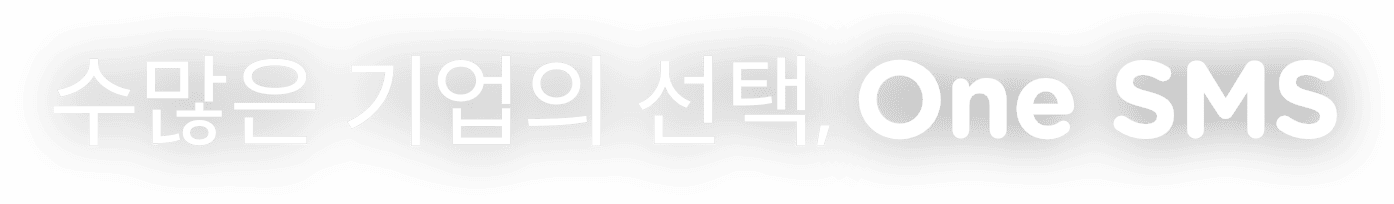
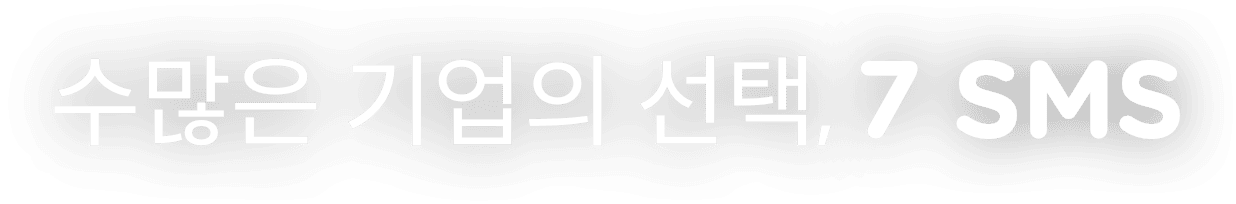
1.로고BI 변경 및 푸터 BI명 변경 2.단, 장문 화면 수정 및 연락처 추가 팝업 작업

diff --git a/v2/assets/css/style.css b/v2/assets/css/style.css
@@ -1311,7 +1311,7 @@ figcaption {
 }
 
 .navigation .bind-left .logo {
-  width: 130px;
+  width: 82px;
   height: 22px;
   margin-right: 50px;
   background: url("../images/logo_black.png") no-repeat 0 0;
@@ -2298,7 +2298,8 @@ footer {
       -ms-flex-align: center;
           align-items: center;
   width: 304px;
-  margin: 76px auto 59px;
+  margin: 0 auto;
+  padding: 76px 0 47px;
 }
 
 .sms-txt-viwer-header > em {
@@ -2322,31 +2323,55 @@ footer {
 }
 
 .sms-txt-input textarea {
-  height: 398px;
-  padding: 0 15px 15px;
+  height: 348px;
+  padding: 12px 15px;
 }
 
 .sms-txt-input .refer {
-  padding: 0 15px 30px;
+  display: -webkit-box;
+  display: -ms-flexbox;
+  display: flex;
+  -webkit-box-orient: vertical;
+  -webkit-box-direction: normal;
+      -ms-flex-direction: column;
+          flex-direction: column;
+  -webkit-box-pack: start;
+      -ms-flex-pack: start;
+          justify-content: flex-start;
+  -webkit-box-align: start;
+      -ms-flex-align: start;
+          align-items: flex-start;
+  gap: 5px 0;
+  padding: 0 15px;
 }
 
 .sms-txt-input .refer [class*='refer'] {
-  display: block;
+  width: 100%;
   line-height: 29px;
   font-size: 12px;
   text-align: center;
   border-radius: 5px;
+  -webkit-box-sizing: border-box;
+          box-sizing: border-box;
 }
 
-.sms-txt-input .refer .refer1 {
+.sms-txt-input .refer.bottom {
+  margin-bottom: 30px;
+}
+
+.sms-txt-input .refer-skyblue {
   border: 1px solid #468bf0;
   background: #e9f2fe;
 }
 
-.sms-txt-input .refer .refer2 {
-  margin-top: 5px;
+.sms-txt-input .refer-red {
   color: #fff;
   background: #e63312;
+}
+
+.sms-txt-input .refer-blue {
+  color: #fff;
+  background: #468bf0;
 }
 
 .sms-txt-input .btn-group-function {
@@ -2391,9 +2416,7 @@ footer {
 }
 
 .sms-txt-write {
-  -webkit-box-flex: 1;
-      -ms-flex: 1;
-          flex: 1;
+  width: 454px;
   padding-top: 15px;
 }
 
@@ -2437,9 +2460,163 @@ footer {
   bottom: 10px;
 }
 
+.sms-txt-write .user-form-choice .radio-chk-display .txt {
+  min-width: 100px;
+}
+
 .sms-txt-write .user-form-choice .select-default select {
   padding-left: 12px;
   padding-right: 18px;
+}
+
+/* 연락처 팝업 */
+.address-add {
+  display: -webkit-box;
+  display: -ms-flexbox;
+  display: flex;
+  -webkit-box-orient: horizontal;
+  -webkit-box-direction: normal;
+      -ms-flex-direction: row;
+          flex-direction: row;
+  -webkit-box-pack: start;
+      -ms-flex-pack: start;
+          justify-content: flex-start;
+  -webkit-box-align: start;
+      -ms-flex-align: start;
+          align-items: flex-start;
+  gap: 0 10px;
+  margin-top: 15px;
+}
+
+.address-add > article {
+  height: 533px;
+  border-radius: 5px;
+}
+
+.address-add-guide {
+  width: 407px;
+  padding: 20px 25px;
+  border: 1px solid #cccfd9;
+}
+
+.address-add-guide > em {
+  margin-bottom: 9px;
+  line-height: 33px;
+  font-weight: 500;
+}
+
+.address-add-guide ol {
+  font-size: 14px;
+  counter-reset: index 0;
+}
+
+.address-add-guide ol li {
+  position: relative;
+  padding-left: 28px;
+  line-height: 22px;
+  letter-spacing: -0.5px;
+}
+
+.address-add-guide ol li span {
+  display: block;
+  color: #6e6e6e;
+}
+
+.address-add-guide ol li::before {
+  content: counter(index);
+  position: absolute;
+  left: 0;
+  top: 0;
+  counter-increment: index 1;
+  width: 21px;
+  line-height: 21px;
+  background: #468bf0;
+  border-radius: 999px;
+  font-size: 12px;
+  text-align: center;
+  color: #fff;
+  font-weight: 400;
+}
+
+.address-add-guide ol li + li {
+  margin-top: 11px;
+}
+
+.address-add-input {
+  -webkit-box-flex: 1;
+      -ms-flex: 1;
+          flex: 1;
+  padding: 20px 25px 25px;
+  background: #f6f5f3;
+}
+
+.address-add-input-header {
+  display: -webkit-box;
+  display: -ms-flexbox;
+  display: flex;
+  -webkit-box-orient: horizontal;
+  -webkit-box-direction: normal;
+      -ms-flex-direction: row;
+          flex-direction: row;
+  -webkit-box-pack: justify;
+      -ms-flex-pack: justify;
+          justify-content: space-between;
+  -webkit-box-align: center;
+      -ms-flex-align: center;
+          align-items: center;
+  margin-bottom: 6px;
+}
+
+.address-add-input-header > em {
+  font-weight: 500;
+}
+
+.address-add-input-header > span {
+  display: -webkit-box;
+  display: -ms-flexbox;
+  display: flex;
+  -webkit-box-orient: horizontal;
+  -webkit-box-direction: normal;
+      -ms-flex-direction: row;
+          flex-direction: row;
+  -webkit-box-pack: justify;
+      -ms-flex-pack: justify;
+          justify-content: space-between;
+  -webkit-box-align: center;
+      -ms-flex-align: center;
+          align-items: center;
+  gap: 0 10px;
+}
+
+.address-add-input-header > span span {
+  font-size: 14px;
+  font-weight: 500;
+}
+
+.address-add-input-header > span span em {
+  color: #468bf0;
+}
+
+.address-add-input-header > span .btn-bordered {
+  padding: 0 17px;
+  line-height: 30px;
+  font-size: 12px;
+  font-weight: 500;
+}
+
+.address-add-input-body {
+  height: calc(100% - 38px);
+  padding: 25px;
+  background: #fff;
+  border-radius: 5px;
+}
+
+.address-add-input-body textarea {
+  height: 100%;
+  line-height: 29px;
+  font-size: 14px;
+  background: url("../images/bg_img_line.png") repeat 0 0;
+  background-size: auto;
 }
 
 /* 수신거부 */

diff --git a/v2/address_add.html b/v2/address_add.html
@@ -1,0 +1,74 @@
+<!DOCTYPE html>
+<html lang="ko">
+  <head>
+    <meta charset="UTF-8" />
+    <meta http-equiv="X-UA-Compatible" content="IE=edge" />
+    <meta name="viewport" content="width=device-width, initial-scale=1.0" />
+    <meta name="description" content="" />
+    <title>연락처 추가 팝업</title>
+    <link rel="stylesheet" href="/v2/assets/css/style.css" />
+    <script defer src="/v2/assets/js/lib/jquery-3.5.1.min.js"></script>
+    <script defer src="/v2/assets/js/lib/jquery.modal.min.js"></script>
+    <script defer src="/v2/assets/js/lib/includeHTML.js"></script>
+    <script defer src="/v2/assets/js/ui.js"></script>
+  </head>
+  <body>
+    <div class="wrapper">
+      <p><a href="#ex1" class="btn-modal-open">연락처 추가 팝업 호출</a></p>
+
+      <div id="ex1" class="modal">
+        <div class="modal-primary">
+          <div class="modal-header">
+            <span class="tit">연락처 추가</span>
+          </div>
+          <div class="modal-content">
+            <div class="address-add">
+              <article class="address-add-guide">
+                <em>주소록 등록 안내</em>
+                <ol>
+                  <li>최대 50,000개까지 등록 가능</li>
+                  <li>문서파일 [복사], [붙여넣기] 가능</li>
+                  <li>핸드폰번호, 이름 순으로 입력</li>
+                  <li>입력 예시 (e.g. 010-0000-0000, 홍길동) <span>* 입력은 입력하지 않아도 됩니다.</span></li>
+                  <li>문의사항 또는 등록대행을 원하시면 고객센터로 연락주세요.</li>
+                </ol>
+              </article>
+              <!-- //address-add-guide -->
+              <article class="address-add-input">
+                <div class="address-add-input-header">
+                  <em>그룹명 : 발송그룹 1</em>
+                  <span>
+                    <span>총 <em>2</em>명</span>
+                    <button type="button" class="btn-bordered sm gray">인원수 확인</button>
+                  </span>
+                </div>
+                <!-- //address-add-input-header -->
+                <div class="address-add-input-body">
+                  <textarea>123</textarea>
+                </div>
+              </article>
+              <!-- //address-add-input -->
+            </div>
+            <!-- //address-add -->
+          </div>
+          <!-- //modal-content -->
+          <div class="modal-btn-group">
+            <a href="#" rel="modal:close" class="btn-secondary">닫기</a>
+            <a href="#" rel="modal:close" class="btn-primary">주소록 등록</a>
+          </div>
+          <!-- //modal-btn-group -->
+        </div>
+        <!-- //management -->
+      </div>
+      <!-- //modal -->
+    </div>
+    <!-- //wrapper -->
+
+    <script>
+      // 퍼블리싱 확인용
+      setTimeout(() => {
+        $('.btn-modal-open').trigger('click');
+      }, 100);
+    </script>
+  </body>
+</html>

diff --git a/v2/sms_txt.html b/v2/sms_txt.html
@@ -29,12 +29,21 @@
                 </div>
                 <!-- //sms-txt-viwer-header -->
                 <div class="sms-txt-input">
-                  <textarea>(광고)</textarea>
-                  <div class="refer">
-                    <em class="refer1">90 byte (한글 45자) 초과시, 자동 장문 전환</em>
-                    <em class="refer2">무료거부 0808870505</em>
+                  <!-- 230207 수정 start -->
+                  <div class="refer top">
+                    <em class="refer-skyblue">90 byte (한글 45자) 초과시, 자동 장문 전환</em>
+                    <em class="refer-blue">(광고)</em>
                   </div>
                   <!-- //refer -->
+
+                  <textarea></textarea>
+
+                  <div class="refer bottom">
+                    <em class="refer-blue">불법수집정보신고번호 118</em>
+                    <em class="refer-red">무료거부 0808870505</em>
+                  </div>
+                  <!-- //refer -->
+                  <!-- //230207 수정 end -->
                   <div class="btn-group-function">
                     <!-- 230131 btn-spchar 클래스 추가 -->
                     <button type="button" class="btn-spchar">특수문자 입력</button>

diff --git a/v2/include/footer.html b/v2/include/footer.html
@@ -1,5 +1,5 @@
 <div class="footer-inner">
-  <em class="txt-lg txt-bold">원터치 문자</em>
+  <em class="txt-lg txt-bold">세븐 문자</em>
   <div class="customer-center">
     <p>고객센터&nbsp;&nbsp;&nbsp;1522-0000</p>
     <p>운영시간&nbsp;&nbsp;&nbsp;평일 09:30 ~ 18:30&nbsp;&nbsp;|&nbsp;&nbsp;주말 10:00 ~ 17:00 (공휴일 휴무)</p>
@@ -11,6 +11,6 @@
     주소&nbsp;&nbsp;&nbsp;서울시 영등포구 00로 0-0, 빌딩
     5층&nbsp;&nbsp;|&nbsp;&nbsp;대표번호&nbsp;&nbsp;&nbsp;1577-0000&nbsp;&nbsp;|&nbsp;&nbsp;E-mail&nbsp;&nbsp;&nbsp;aaa@naver.com
   </address>
-  <address class="copy">Copyright© 원터치 문자 All Rights Reserved.</address>
+  <address class="copy">Copyright© 세븐 문자 All Rights Reserved.</address>
 </div>
 <!-- //footer-inner -->
